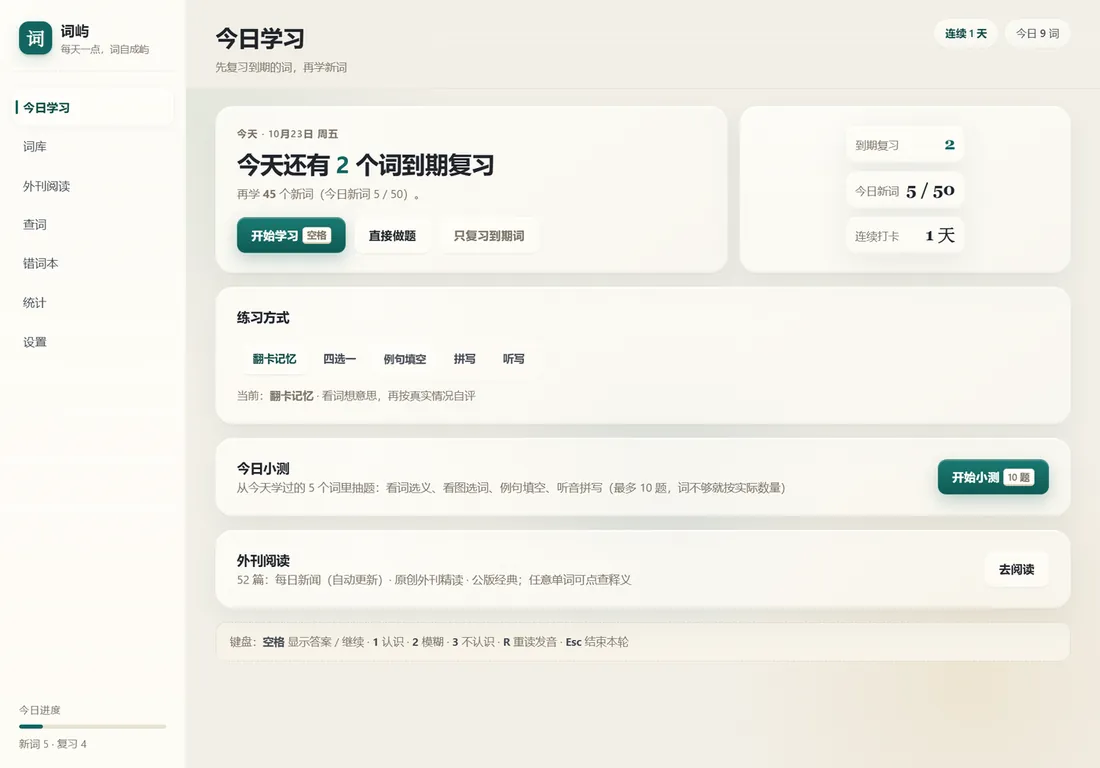
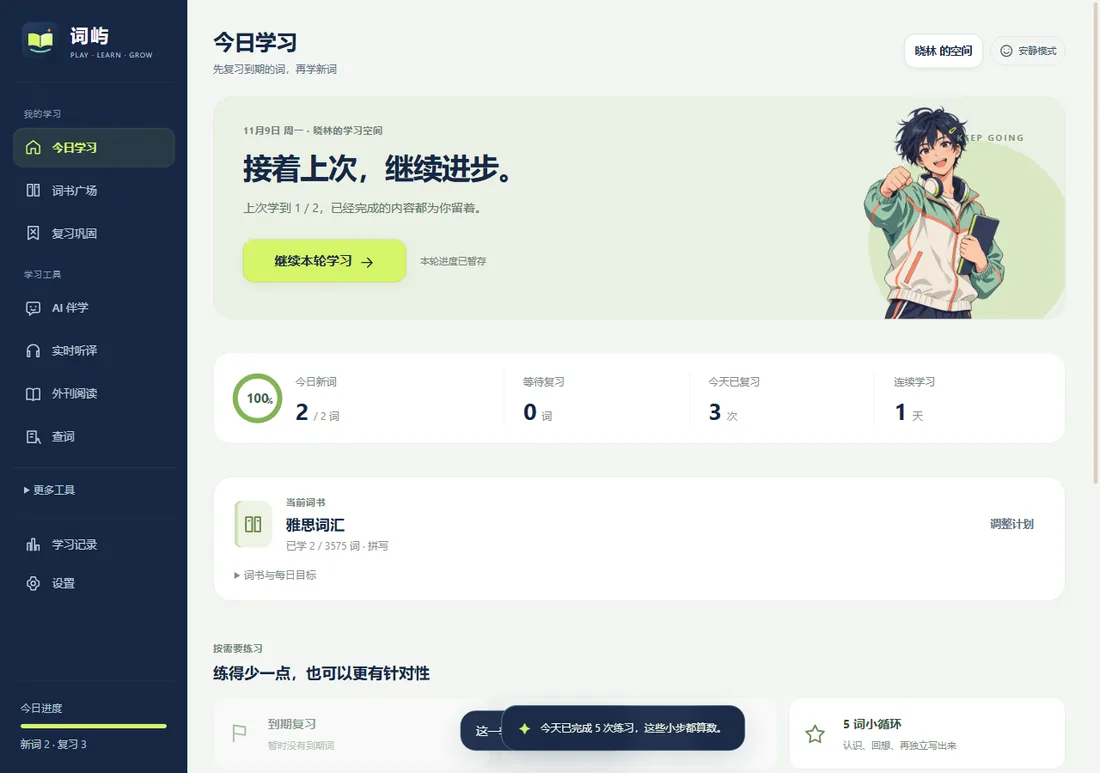
site: publish v3.9.35-preview（全文阅读、本地 AI、42 本词书、模型包下载）

diff --git a/index.html b/index.html
@@ -3,15 +3,15 @@
 <head>
 <meta charset="utf-8">
 <meta name="viewport" content="width=device-width, initial-scale=1">
-<title>词屿 Word Isle · 离线背英语单词的桌面应用（Windows 免费下载）</title>
-<meta name="description" content="词屿（Word Isle）是一款离线可用的英语学习桌面应用：九本考试与牛津词库 28,497 词条、65,000 词本地词典、52 篇外刊与每日新闻、接近真人的朗读、文章词汇地图。Windows 安装包免费下载，由 GitHub Releases 分发。">
+<title>词屿 Word Isle · 离线可用的英语学习桌面应用（Windows 免费下载）</title>
+<meta name="description" content="词屿（Word Isle）是一款离线可用的英语学习桌面应用：42 本词书、65,000 词本地词典、16 个外刊来源与 150 篇官方全文、软件内直接读全文、本机 AI 伴学与离线翻译、本机加密账号。Windows 包免费下载，由 GitHub Releases 分发。">
 <meta name="theme-color" content="#f6f1e6">
 <link rel="icon" href="assets/favicon.png" sizes="64x64">
 <link rel="icon" href="assets/favicon-32.png" sizes="32x32">
 <link rel="apple-touch-icon" href="assets/apple-touch-icon.png">
 <meta property="og:type" content="website">
 <meta property="og:title" content="词屿 Word Isle · 每天一点，词自成屿">
-<meta property="og:description" content="九本词库 + 65,000 词本地词典 + 52 篇外刊 + 每日新闻 + 真人感朗读 + 文章词汇地图。离线可用的英语学习桌面应用。">
+<meta property="og:description" content="42 本词书 + 65,000 词本地词典 + 16 个外刊来源 + 150 篇官方全文 + 软件内读全文 + 本机 AI 伴学与离线翻译。离线可用的英语学习桌面应用。">
 <meta property="og:image" content="assets/og.png">
 <meta property="og:image:width" content="1200">
 <meta property="og:image:height" content="630">
@@ -36,17 +36,17 @@
 <main id="top">
   <section class="hero">
     <div class="hero-copy">
-      <p class="kicker">离线优先 · 打开即学 · v3.9.3</p>
+      <p class="kicker">离线优先 · 站内读全文 · v3.9.35 体验版</p>
       <h1>每天一点，<br><em>词自成屿。</em></h1>
-      <p class="lead">词屿是一款离线可用的英语学习桌面应用：九本考试与牛津词库、65,000 词本地词典、52 篇外刊与每日新闻、接近真人的朗读。不注册、不上传，学习记录只留在你的电脑里。</p>
+      <p class="lead">词屿是一款离线可用的英语学习桌面应用：42 本词书、65,000 词本地词典、16 个外刊来源与 150 篇官方全文，文章可以直接在软件里读完。本机账号加密保存学习记录，本地 AI 伴学与离线翻译随包运行，不把资料发到外部服务。</p>
       <div class="hero-actions">
-        <a class="btn btn-primary" href="#download" data-download="win">点击此处下载<span class="btn-note">v3.9.3 Enhanced · 127 MB</span></a>
+        <a class="btn btn-primary" href="#download" data-download="win">点击此处下载<span class="btn-note">v3.9.35 体验版 · 293 MB</span></a>
         <a class="btn btn-ghost" href="#features">看看功能</a>
       </div>
       <ul class="hero-meta">
         <li>Windows 10 / 11 · x64</li>
         <li>离线可用</li>
-        <li>无需注册</li>
+        <li>本机账号</li>
       </ul>
       <p class="hero-tip" id="downloadTip" hidden></p>
     </div>
@@ -55,29 +55,44 @@
         <span class="dot"></span><span class="dot"></span><span class="dot"></span>
         <span class="window-title">词屿 · 今日学习</span>
       </div>
-      <img src="assets/home.webp" alt="词屿今日学习界面：词库、练习方式与今日进度" width="1100" height="810" loading="eager">
+      <img src="assets/home.webp" alt="词屿今日学习界面：当前词书、今日目标与开始学习" width="1100" height="773" loading="eager">
     </figure>
   </section>
 
   <section class="band" aria-label="数据概览">
-    <div><b>9</b><span>本词库</span></div>
-    <div><b>28,497</b><span>词条</span></div>
+    <div><b>42</b><span>本词书</span></div>
+    <div><b>16,521</b><span>去重词形</span></div>
     <div><b>65,000</b><span>查词词典</span></div>
-    <div><b>52</b><span>篇外刊</span></div>
-    <div><b>5</b><span>种练法</span></div>
+    <div><b>150</b><span>篇官方全文</span></div>
+    <div><b>16</b><span>个外刊来源</span></div>
   </section>
 
   <section id="features" class="section">
     <div class="section-head">
       <p class="kicker">为什么是词屿</p>
-      <h2>把背单词需要的，放进一个窗口</h2>
-      <p class="section-sub">不追求花哨的排行榜，只把「今天该复习哪几个词」这件事做顺。</p>
+      <h2>把读、查、背、复习，放进一个窗口</h2>
+      <p class="section-sub">不追求花哨的排行榜，只把「今天该复习哪几个词」和「这篇外刊怎么读完」做顺。</p>
     </div>
     <div class="grid features">
       <article class="card">
+        <span class="glyph" aria-hidden="true">读</span>
+        <h3>软件内直接读全文 <span class="badge">3.9.35 新增</span></h3>
+        <p>ScienceDaily、NPR、Smithsonian、Science News Explores 等来源的文章，点「阅读全文」就在词屿自己的窗口里打开官方完整页面：后退、前进、重新加载、原版页面与文字缩放都在。</p>
+      </article>
+      <article class="card">
+        <span class="glyph" aria-hidden="true">刊</span>
+        <h3>16 个来源 · 150 篇全文</h3>
+        <p>8 家媒体与机构、16 个订阅频道；150 篇经完整性校验的官方正文，从原网页正文区域提取到最后一段，支持点词查义、段落笔记、收藏与离线阅读。</p>
+      </article>
+      <article class="card">
+        <span class="glyph" aria-hidden="true">AI</span>
+        <h3>本地 AI 伴学与离线翻译</h3>
+        <p>随包 Qwen3-1.7B 讲词、讲段、解析听力，Hy-MT2-1.8B 做离线翻译；Windows x64 CPU 推理，不需要 Ollama / Python / CUDA。也可以改用在线 API 模式。</p>
+      </article>
+      <article class="card">
         <span class="glyph" aria-hidden="true">岛</span>
-        <h3>九本词库，一座词岛</h3>
-        <p>CET-4/6、考研、雅思、托福、GRE，加上牛津 3000/5000 与柯林斯五星。SM-2 间隔重复，只复习该复习的词。</p>
+        <h3>42 本词书，一座词岛</h3>
+        <p>小学、初高中、四六级、考研、雅思、托福、GRE 与牛津 / 柯林斯词表分册，74,278 条收录、16,521 个去重词形；SM-2 间隔复习，只复习该复习的词。</p>
       </article>
       <article class="card">
         <span class="glyph" aria-hidden="true">典</span>
@@ -85,29 +100,19 @@
         <p>输入即查，中英互查；音标、词性、释义与例句离线可用，遇到生词一键收进「查词生词」词库。</p>
       </article>
       <article class="card">
-        <span class="glyph" aria-hidden="true">读</span>
-        <h3>外刊与每日新闻</h3>
-        <p>52 篇双语精读 + 每天自动更新的 NASA 新闻；点任意单词看释义，整篇可听，进度条随时拖动。</p>
-      </article>
-      <article class="card">
-        <span class="glyph" aria-hidden="true">图</span>
-        <h3>文章词汇地图 <span class="badge">3.9.3 新增</span></h3>
-        <p>粘贴任意英文文章，一键标出哪些词形练过、哪些没练过，并算出练习记录覆盖率。文章只在内存里分析，关闭即消失。</p>
-      </article>
-      <article class="card">
-        <span class="glyph" aria-hidden="true">声</span>
-        <h3>接近真人的朗读</h3>
-        <p>单词用有道美音/英音，整句用微软在线神经语音（5 种音色）或百度翻译；断网自动回退系统语音。</p>
+        <span class="glyph" aria-hidden="true">锁</span>
+        <h3>本机加密账号</h3>
+        <p>注册即得 WI- 开头的本机 ID，学习进度、笔记与资料按账号加密保存；支持记住密码 / 自动登录、锁定、恢复密钥与 .wiaccount 加密备份。不上传账号服务器。</p>
       </article>
       <article class="card">
         <span class="glyph" aria-hidden="true">练</span>
-        <h3>五种练法 + 小测</h3>
-        <p>翻卡、四选一、例句填空、拼写、听写；每天小测、斩词与连续打卡，把「认识」变成「记住」。</p>
+        <h3>五种练法 + 五词闯关</h3>
+        <p>翻卡、四选一、例句填空、拼写、听写；五词小循环按「认识它 → 换个方式想起 → 独立写出来」推进，错词本可直接针对性补练。</p>
       </article>
       <article class="card">
-        <span class="glyph" aria-hidden="true">玻</span>
-        <h3>安静好看的界面</h3>
-        <p>浅色纸感 + 液态玻璃质感，指针高光与弹簧动效；可在设置里一键关闭，低配电脑也流畅。</p>
+        <span class="glyph" aria-hidden="true">声</span>
+        <h3>朗读与柔和音效</h3>
+        <p>单词用有道美音/英音，整句用微软在线神经语音或百度翻译，断网回退系统语音；朗读高亮逐词跟随且不再遮挡段首。答题提示为约 0.7 秒的柔和琴音，可关。</p>
       </article>
     </div>
   </section>
@@ -119,20 +124,28 @@
     </div>
     <div class="grid shots">
       <figure class="shot">
-        <img src="assets/study.webp" alt="翻卡记忆界面：单词、音标与例句" loading="eager" decoding="async" width="1100" height="810">
-        <figcaption>翻卡：单词下面直接给例句，想不起再翻面</figcaption>
+        <img src="assets/study.webp" alt="专注学习界面：当前题目、选项与进度" loading="eager" decoding="async" width="1100" height="773">
+        <figcaption>专注学习：默认只显示当前题目，可随时暂停或暂存离开</figcaption>
       </figure>
       <figure class="shot">
-        <img src="assets/readings.webp" alt="外刊阅读列表：分类筛选与文章卡片" loading="eager" decoding="async" width="1100" height="810">
-        <figcaption>外刊：分类筛选，点词查义，整篇朗读</figcaption>
+        <img src="assets/fulltext.webp" alt="站内全文阅读：完整英文正文、段首高亮与工具栏" loading="eager" decoding="async" width="1100" height="773">
+        <figcaption>全文阅读：软件内直接读到最后一页，可点词查义、记笔记</figcaption>
       </figure>
       <figure class="shot">
-        <img src="assets/dict.webp" alt="阅读中点单词弹出的中文释义与例句" loading="eager" decoding="async" width="1100" height="810">
-        <figcaption>点任意单词：音标、中文释义、例句、加入生词本</figcaption>
+        <img src="assets/npr.webp" alt="NPR 来源栏目：每个频道内置 10 篇真实原文入口" loading="eager" decoding="async" width="1100" height="773">
+        <figcaption>外刊来源：NPR 综合 / 世界 / 图书 / 教育各 10 篇，官方纯文字版优先</figcaption>
       </figure>
       <figure class="shot">
-        <img src="assets/dict-search.webp" alt="本地词典查词界面：输入单词查看释义与例句" loading="eager" decoding="async" width="1100" height="810">
-        <figcaption>65,000 词本地词典：输入即查，中英互查</figcaption>
+        <img src="assets/readings.webp" alt="外刊精读界面：正文、查词与段落笔记" loading="eager" decoding="async" width="1100" height="773">
+        <figcaption>精读：点词查义、段落笔记、整篇朗读，进度可拖</figcaption>
+      </figure>
+      <figure class="shot">
+        <img src="assets/decks.webp" alt="词书广场：42 本词书按阶段筛选与搜索" loading="eager" decoding="async" width="1100" height="773">
+        <figcaption>词书广场：42 本词书，按阶段筛选、按名称搜索</figcaption>
+      </figure>
+      <figure class="shot">
+        <img src="assets/login.webp" alt="登录注册界面：头像、账号密码与记住密码选项" loading="eager" decoding="async" width="1100" height="859">
+        <figcaption>本机账号：记住密码 / 自动登录主动勾选，凭据由 Windows 保护</figcaption>
       </figure>
     </div>
   </section>
@@ -140,28 +153,35 @@
   <section id="download" class="section download">
     <div class="section-head">
       <p class="kicker">下载</p>
-      <h2>装上就能背，不联网也行</h2>
-      <p class="section-sub">安装包内置全部词库、阅读与界面资源，装好后核心功能完全离线。安装包统一由 <a href="https://github.com/1752370874-blip/wordisle/releases/latest">GitHub Releases</a> 分发，点击下面的按钮即从最新版本直接下载。</p>
+      <h2>解压就能背，不联网也行</h2>
+      <p class="section-sub">主包已内置全部词书、全文阅读数据与断句 / 语音小模型，解压后核心功能完全离线。本地 AI 模型按需另下。所有文件统一由 <a href="https://github.com/1752370874-blip/wordisle/releases/latest">GitHub Releases</a> 分发。</p>
     </div>
     <div class="grid download-grid">
       <article class="card download-card">
-        <div class="dl-head"><span class="os">Windows</span><span class="badge">推荐</span></div>
-        <p class="dl-version">v3.9.3 Enhanced · x64 · 127 MB</p>
-        <a class="btn btn-primary wide" href="#" data-download="win">点击此处下载安装包</a>
-        <p class="dl-note">支持 Windows 10 / 11。安装包为自签名证书，SmartScreen 可能提示「未知发布者」：点「更多信息 → 仍要运行」。下载地址来自 GitHub Releases，浏览器支持断点续传。</p>
+        <div class="dl-head"><span class="os">Windows · 主包</span><span class="badge">推荐</span></div>
+        <p class="dl-version">v3.9.35 体验版 · x64 · <span data-win-size>293 MB</span></p>
+        <a class="btn btn-primary wide" href="#" data-download="win">点击此处下载主包</a>
+        <p class="dl-note">解压后双击 <code>WordIsle.exe</code> 即可运行，无需安装。首次打开会进入注册 / 登录，学习记录按本机账号加密保存。可执行文件没有 CA 代码签名，SmartScreen 可能提示「未知发布者」：点「更多信息 → 仍要运行」。</p>
+      </article>
+      <article class="card download-card">
+        <div class="dl-head"><span class="os">本地 AI 模型</span><span class="badge muted">可选</span></div>
+        <p class="dl-version">按需下载，合并进主包同名目录</p>
+        <a class="btn btn-ghost wide" href="#" data-model="qwen">Qwen3-1.7B 伴学包 · <span data-model-size>1.22 GB</span></a>
+        <a class="btn btn-ghost wide" href="#" data-model="hy">Hy-MT2 离线翻译包 · <span data-model-size>1.08 GB</span></a>
+        <p class="dl-note">解压出的 <code>resources/app/app/models/</code> 合并进主包同路径即可；不下载也能正常背词、查词、阅读，只是本地 AI 伴学与离线翻译会提示模型缺失，也可以在设置里改用在线 API。</p>
       </article>
       <article class="card download-card">
         <div class="dl-head"><span class="os">macOS</span><span class="badge muted">构建中</span></div>
         <p class="dl-version">Apple 芯片 / Intel · 需在 macOS 上打包</p>
         <a class="btn btn-ghost wide" href="#faq">查看说明</a>
-        <p class="dl-note">macOS 安装包必须在 Mac 上构建（Apple 工具链限制）。项目已带一键构建脚本与 GitHub Actions 工作流，拿到 Mac 或云端即可生成 DMG。</p>
+        <p class="dl-note">macOS 包必须在 Mac 上构建（Apple 工具链限制）。项目已带一键构建脚本与 GitHub Actions 工作流，拿到 Mac 或云端即可生成 DMG。</p>
       </article>
     </div>
     <ul class="reqs">
-      <li><b>源码与版本</b>：仓库 <a href="https://github.com/1752370874-blip/wordisle">github.com/1752370874-blip/wordisle</a>，历史版本与更新说明在 <a href="https://github.com/1752370874-blip/wordisle/releases">Releases</a>。</li>
-      <li><b>数据位置</b>：学习记录保存在本机，可在设置里导出 / 导入备份。</li>
-      <li><b>更新</b>：词汇与阅读随版本更新；每日新闻在联网时自动刷新。</li>
-      <li><b>卸载</b>：从「设置 → 应用」卸载，不会删除你的学习记录。</li>
+      <li><b>体积</b>：主包 293 MB；两个模型包合计 2.3 GB。全部下载约 2.6 GB，解压后合计约 7 GB，建议 Windows x64、8 GB 内存以上（16 GB 更稳），不需要独立显卡。</li>
+      <li><b>源码与版本</b>：仓库 <a href="https://github.com/1752370874-blip/wordisle">github.com/1752370874-blip/wordisle</a>，历史版本与校验值在 <a href="https://github.com/1752370874-blip/wordisle/releases">Releases</a>。</li>
+      <li><b>数据位置</b>：竞赛体验版使用独立数据目录 <code>%APPDATA%\WordIsle-Contest-Preview</code>，与旧的 3.9.x 安装版互不影响；可在设置里导出 / 导入加密备份。</li>
+      <li><b>更新</b>：词书与全文随版本更新；外刊在联网时按 6 / 12 / 24 小时检查，最多保留 1500 条公共缓存。</li>
     </ul>
   </section>
 
@@ -177,34 +197,34 @@
       </details>
       <details>
         <summary>下载按钮跳到哪了？</summary>
-        <p>跳到 GitHub Releases 的最新安装包直链（<code>releases/latest/download/WordIsle-Enhanced-Setup-3.9.3.exe</code>）。如果浏览器拦截了跳转，也可以直接打开 <a href="https://github.com/1752370874-blip/wordisle/releases/latest">Releases 页面</a> 手动下载。</p>
+        <p>跳到 GitHub Releases 的最新主包直链（<code>releases/latest/download/WordIsle-3.9.35-preview-win-x64.zip</code>）。如果浏览器拦截了跳转，也可以直接打开 <a href="https://github.com/1752370874-blip/wordisle/releases/latest">Releases 页面</a> 手动下载主包或模型包。</p>
       </details>
       <details>
-        <summary>文章词汇地图是怎么算的？</summary>
-        <p>把文章切成一个个英文词，逐个查询本机的练习记录：绿色表示这个「词形」练过，橙色表示没有记录。按原词形精确匹配，不推断复数、时态等变化；「练过」不代表「已掌握」，「没记录」也不代表「不认识」。</p>
+        <summary>本地 AI 模型怎么装？</summary>
+        <p>下载对应模型包，解压后得到 <code>resources/app/app/models/</code>，把它合并进主包的同名目录（提示覆盖时选择「合并」）。重新打开 <code>WordIsle.exe</code> 即可在设置里看到模型可用。模型是 Apache-2.0 许可的公开权重，软件只做推理，不微调权重。</p>
+      </details>
+      <details>
+        <summary>和旧的 3.9.3 安装版数据互通吗？</summary>
+        <p>竞赛体验版使用独立数据目录 <code>%APPDATA%\WordIsle-Contest-Preview</code>，默认不读写旧版的学习记录。需要迁移时，可在注册时勾选迁入旧版本机记录，或先在旧版「设置 → 导出学习 JSON」再导入。</p>
       </details>
       <details>
         <summary>需要联网吗？</summary>
-        <p>核心功能（词库、查词、阅读、练习、复习、词汇地图）完全离线。朗读与每日新闻需要网络；断网时朗读自动回退到系统语音。</p>
+        <p>核心功能（词书、查词、全文阅读、练习、复习）完全离线，本地 AI 也在本机推理。在线朗读、外刊更新与「原站全文」需要网络；断网时朗读回退系统语音，已缓存的正文照常可读。</p>
       </details>
       <details>
         <summary>学习数据会上传吗？</summary>
-        <p>不会。没有账号系统，学习进度、生词本、设置都保存在本机，可用「设置 → 导出备份」迁移。文章词汇地图里粘贴的正文只在内存中处理，关闭后不保存。</p>
+        <p>不会。注册的是本机账号，学习进度、生词本、笔记与设置加密保存在本机，不上传账号服务器、不自动跨设备同步。本地 AI 推理不外发资料；只有主动选择在线 API 模式时才按界面中的发送确认发出。</p>
       </details>
       <details>
         <summary>为什么 Windows 提示「未知发布者」？</summary>
-        <p>当前使用自签名代码签名证书，3.9.3 Enhanced 是重新打包的版本、没有重新签名。选择「更多信息 → 仍要运行」即可；要彻底消除提示需要购买 OV/EV 代码签名证书。</p>
-      </details>
-      <details>
-        <summary>升级会覆盖我的学习数据吗？</summary>
-        <p>新版本沿用原程序的数据路径，可能读取和修改原有学习数据。升级前请先在原程序里「设置 → 导出备份」，再安装新版本。</p>
+        <p>可执行文件没有购买 CA 代码签名证书。选择「更多信息 → 仍要运行」即可；要彻底消除提示需要购买 OV/EV 代码签名证书。</p>
       </details>
       <details>
         <summary>有 macOS 版吗？</summary>
-        <p>源代码已适配 macOS（双架构、标准菜单、DMG 配置）。但 macOS 安装包必须在 Mac 上构建，项目里提供了 <code>build-macos.sh</code> 与 GitHub Actions 工作流，可自行生成 DMG。</p>
+        <p>源代码已适配 macOS（双架构、标准菜单、DMG 配置），但安装包必须在 Mac 上构建。项目里提供了 <code>build-macos.sh</code> 与 GitHub Actions 工作流，可自行生成 DMG。</p>
       </details>
       <details>
-        <summary>词库可以自定义吗？</summary>
+        <summary>词书可以自定义吗？</summary>
         <p>可以。设置里支持导入 CSV（单词,音标,词性,释义,例句,翻译）或本应用导出的 JSON 备份；也可以把查词时收藏的词当普通词库练习。</p>
       </details>
       <details>
@@ -226,7 +246,10 @@
       <li><b>Tatoeba</b>（CC BY 2.0 FR）与 <b>WordNet</b> —— 例句</li>
       <li><b>CMUdict</b> —— 音标转写</li>
       <li><b>Project Gutenberg</b> —— 公版经典选段</li>
-      <li><b>NASA</b>（公共领域）—— 每日英语新闻</li>
+      <li><b>NASA / NPR / Smithsonian / ScienceDaily / MIT News</b> —— 外刊与新闻来源（按各站条款在软件内跳转或展示）</li>
+      <li><b>Qwen3-1.7B</b>（Apache-2.0）与 <b>Hy-MT2-1.8B</b>（Apache-2.0）—— 本地伴学与翻译模型</li>
+      <li><b>Whisper tiny.en</b>（MIT）、<b>Silero VAD</b> —— 听译与语音活动检测</li>
+      <li><b>node-llama-cpp / llama.cpp</b>（MIT）—— 本地推理运行时</li>
       <li><b>Electron</b>（MIT）—— 桌面运行时</li>
       <li><b>有道 / 百度 / 微软</b> —— 运行时在线朗读服务（不内置音频）</li>
     </ul>

diff --git a/config.js b/config.js
@@ -1,12 +1,27 @@
 // 词屿官网配置：部署前只需要改这里
-// 安装包统一由 GitHub Releases 分发，winDownload 使用 latest 固定直链，
-// 以后发新版本时改这里的文件名即可（网站正文不用动）。
+// 主包与模型包统一由 GitHub Releases 分发，链接用 latest/download 固定直链，
+// 以后发新版本时改这里的文件名即可（网站正文里的体积文字同步改一下）。
 window.SITE_CONFIG = {
-  version: '3.9.3',
+  version: '3.9.35-preview',
 
-  // Windows 安装包直链（GitHub Releases 的 latest/download 固定链接）
+  // Windows 主包（GitHub Releases 的 latest/download 固定链接）
   // 形如：https://github.com/<owner>/<repo>/releases/latest/download/<文件名>
-  winDownload: 'https://github.com/1752370874-blip/wordisle/releases/latest/download/WordIsle-Enhanced-Setup-3.9.3.exe',
+  winDownload: 'https://github.com/1752370874-blip/wordisle/releases/latest/download/WordIsle-3.9.35-preview-win-x64.zip',
+  winSize: '293 MB',
+
+  // 可选本地模型包（不下载也能正常背词、查词、阅读）
+  models: {
+    qwen: {
+      label: 'Qwen3-1.7B · 伴学 / 讲解',
+      size: '1.22 GB',
+      url: 'https://github.com/1752370874-blip/wordisle/releases/latest/download/WordIsle-3.9.35-models-qwen3-1.7b.zip'
+    },
+    hy: {
+      label: 'Hy-MT2-1.8B · 离线翻译',
+      size: '1.08 GB',
+      url: 'https://github.com/1752370874-blip/wordisle/releases/latest/download/WordIsle-3.9.35-models-hy-mt2.zip'
+    }
+  },
 
   // 备用入口：直链失效时跳 Releases 页面，让用户自己选版本
   winDownloadFallback: 'https://github.com/1752370874-blip/wordisle/releases/latest',

diff --git a/site.js b/site.js
@@ -35,7 +35,7 @@
       var url = urlFor(key);
       if (url) {
         // 直链走 GitHub Releases：点击后告诉用户正在下载什么
-        if (key === 'win') showTip('正在从 GitHub Releases 下载安装包（约 127 MB）…');
+        if (key === 'win') showTip('正在从 GitHub Releases 下载主包（约 ' + (cfg.winSize || '293 MB') + '）…');
         return;
       }
       e.preventDefault();
@@ -46,6 +46,25 @@
         if (cfg.winDownloadFallback) window.open(cfg.winDownloadFallback, '_blank', 'noopener');
       }
     });
+  });
+
+  // 主包体积文字
+  document.querySelectorAll('[data-win-size]').forEach(function (el) {
+    if (cfg.winSize) el.textContent = cfg.winSize;
+  });
+
+  // 可选模型包
+  document.querySelectorAll('[data-model]').forEach(function (el) {
+    var key = el.getAttribute('data-model');
+    var item = cfg.models && cfg.models[key];
+    if (!item || !item.url) {
+      el.setAttribute('aria-disabled', 'true');
+      return;
+    }
+    el.setAttribute('href', item.url);
+    el.setAttribute('rel', 'noopener');
+    var sizeEl = el.querySelector('[data-model-size]');
+    if (sizeEl && item.size) sizeEl.textContent = item.size;
   });
 
   // 联系邮箱

diff --git a/DEPLOY-CN.md b/DEPLOY-CN.md
@@ -37,7 +37,7 @@ python scripts/publish_github.py --site-only
 站点里所有下载按钮的 `href` 由 `site/config.js` 决定：
 
 ```js
-winDownload: 'https://github.com/1752370874-blip/wordisle/releases/latest/download/WordIsle-Enhanced-Setup-3.9.3.exe'
+winDownload: 'https://github.com/1752370874-blip/wordisle/releases/latest/download/WordIsle-3.9.35-preview-win-x64.zip'
 ```
 
 - `releases/latest/download/<文件名>` 是 GitHub 的固定跳转链接，永远指向最新正式 Release；
@@ -48,9 +48,9 @@ winDownload: 'https://github.com/1752370874-blip/wordisle/releases/latest/downlo
 发新版本：
 
 1. 打包安装包；
-2. 新建 Release（tag 例如 `v3.9.4`）并上传安装包；
+2. 新建 Release（tag 例如 `v3.9.35-preview`）并上传安装包；
 3. 如果文件名变了，改 `site/config.js` 的 `version` 与 `winDownload`；
-4. 改 `site/index.html` 里的版本/体积文字（搜索 `127 MB`、`v3.9.3`）；
+4. 改 `site/index.html` 里的版本/体积文字（搜索 `293 MB`、`v3.9.35`）；
 5. 发布 `gh-pages`。
 
 ---

diff --git a/README.md b/README.md
@@ -32,11 +32,13 @@ site/
 `config.js` 里只有一个关键字段：
 
 ```js
-winDownload: 'https://github.com/1752370874-blip/wordisle/releases/latest/download/WordIsle-Enhanced-Setup-3.9.3.exe'
+winDownload: 'https://github.com/1752370874-blip/wordisle/releases/latest/download/WordIsle-3.9.35-preview-win-x64.zip',
+winSize: '293 MB',
+models: { qwen: {...}, hy: {...} }   // 可选本地模型包
 ```
 
 - `latest/download/<文件名>` 是 GitHub 的固定跳转链接：永远指向**最新的正式 Release**，所以页面上的「点击此处下载」不需要跟着版本号改地址。
-- 发新版本时：上传新 Release → 如果文件名变了，只改 `config.js` 的这一行 → 重新发布 `gh-pages`。
+- 发新版本时：上传新 Release → 如果文件名变了，只改 `config.js` 的这几行（主包直链 + 模型包直链 + 体积文字） → 重新发布 `gh-pages`。
 - 直链失效（比如文件名写错）时，`site.js` 会退回到 `winDownloadFallback`（Releases 列表页）。
 
 ## 发布官网到 GitHub Pages
